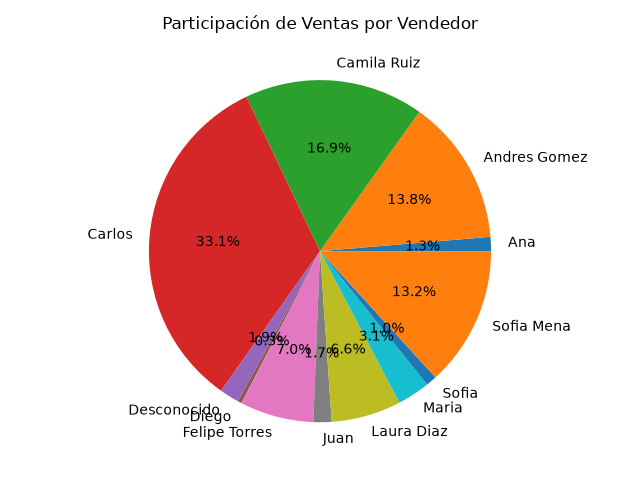
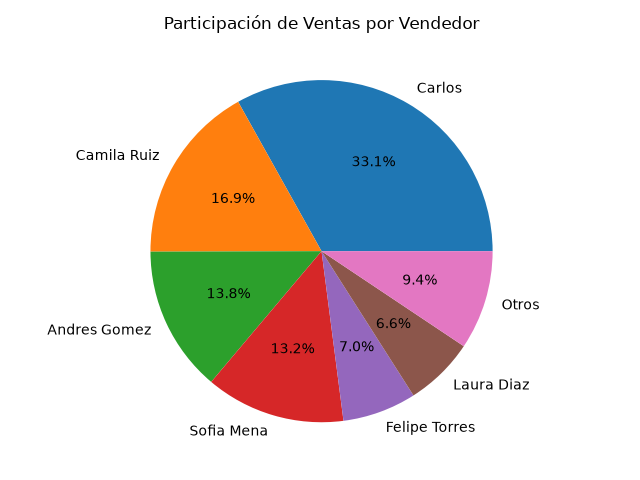
agrupar vendedores menores en Otros para legibilidad de la torta

diff --git a/automatizar.py b/automatizar.py
@@ -66,7 +66,14 @@ def procesar_todo(archivo_nuevo):
     plt.close()
 
     # Gráfico 2: participación por vendedor (torta)
-    ventas_vendedor = df_consolidado.groupby('vendedor')['precio_unitario'].sum()
+    # Los vendedores pequeños se agrupan en "Otros" para que la torta
+    # siga siendo legible con muchos vendedores distintos.
+    ventas_vendedor = df_consolidado.groupby('vendedor')['precio_unitario'].sum().sort_values(ascending=False)
+    umbral = ventas_vendedor.sum() * 0.04  # agrupa a quienes aportan menos del 4%
+    pequeños = ventas_vendedor[ventas_vendedor < umbral]
+    if len(pequeños) > 0:
+        ventas_vendedor = ventas_vendedor[ventas_vendedor >= umbral]
+        ventas_vendedor['Otros'] = pequeños.sum()
     ventas_vendedor.plot(kind='pie', autopct='%1.1f%%', title='Participación de Ventas por Vendedor')
     plt.ylabel('')
     plt.tight_layout()

diff --git a/README.md b/README.md
@@ -144,6 +144,8 @@ Empate en el primer puesto con **10 ventas** cada uno:
 | Sofia | $103.000 | 1,0% |
 | Diego | $35.000 | 0,3% |
 
+> En el gráfico `grafico_vendedor.png`, los vendedores que aportan menos del **4%** se agrupan en la tajada **"Otros"** ($938.700) para que la torta siga siendo legible. Carlos, Camila Ruiz, Andres Gomez, Sofia Mena, Felipe Torres y Laura Diaz se muestran individualmente.
+
 ### Métodos de pago
 
 Tarjeta: 23 ventas · Efectivo: 22 · Transferencia: 16 · Desconocido: 14
